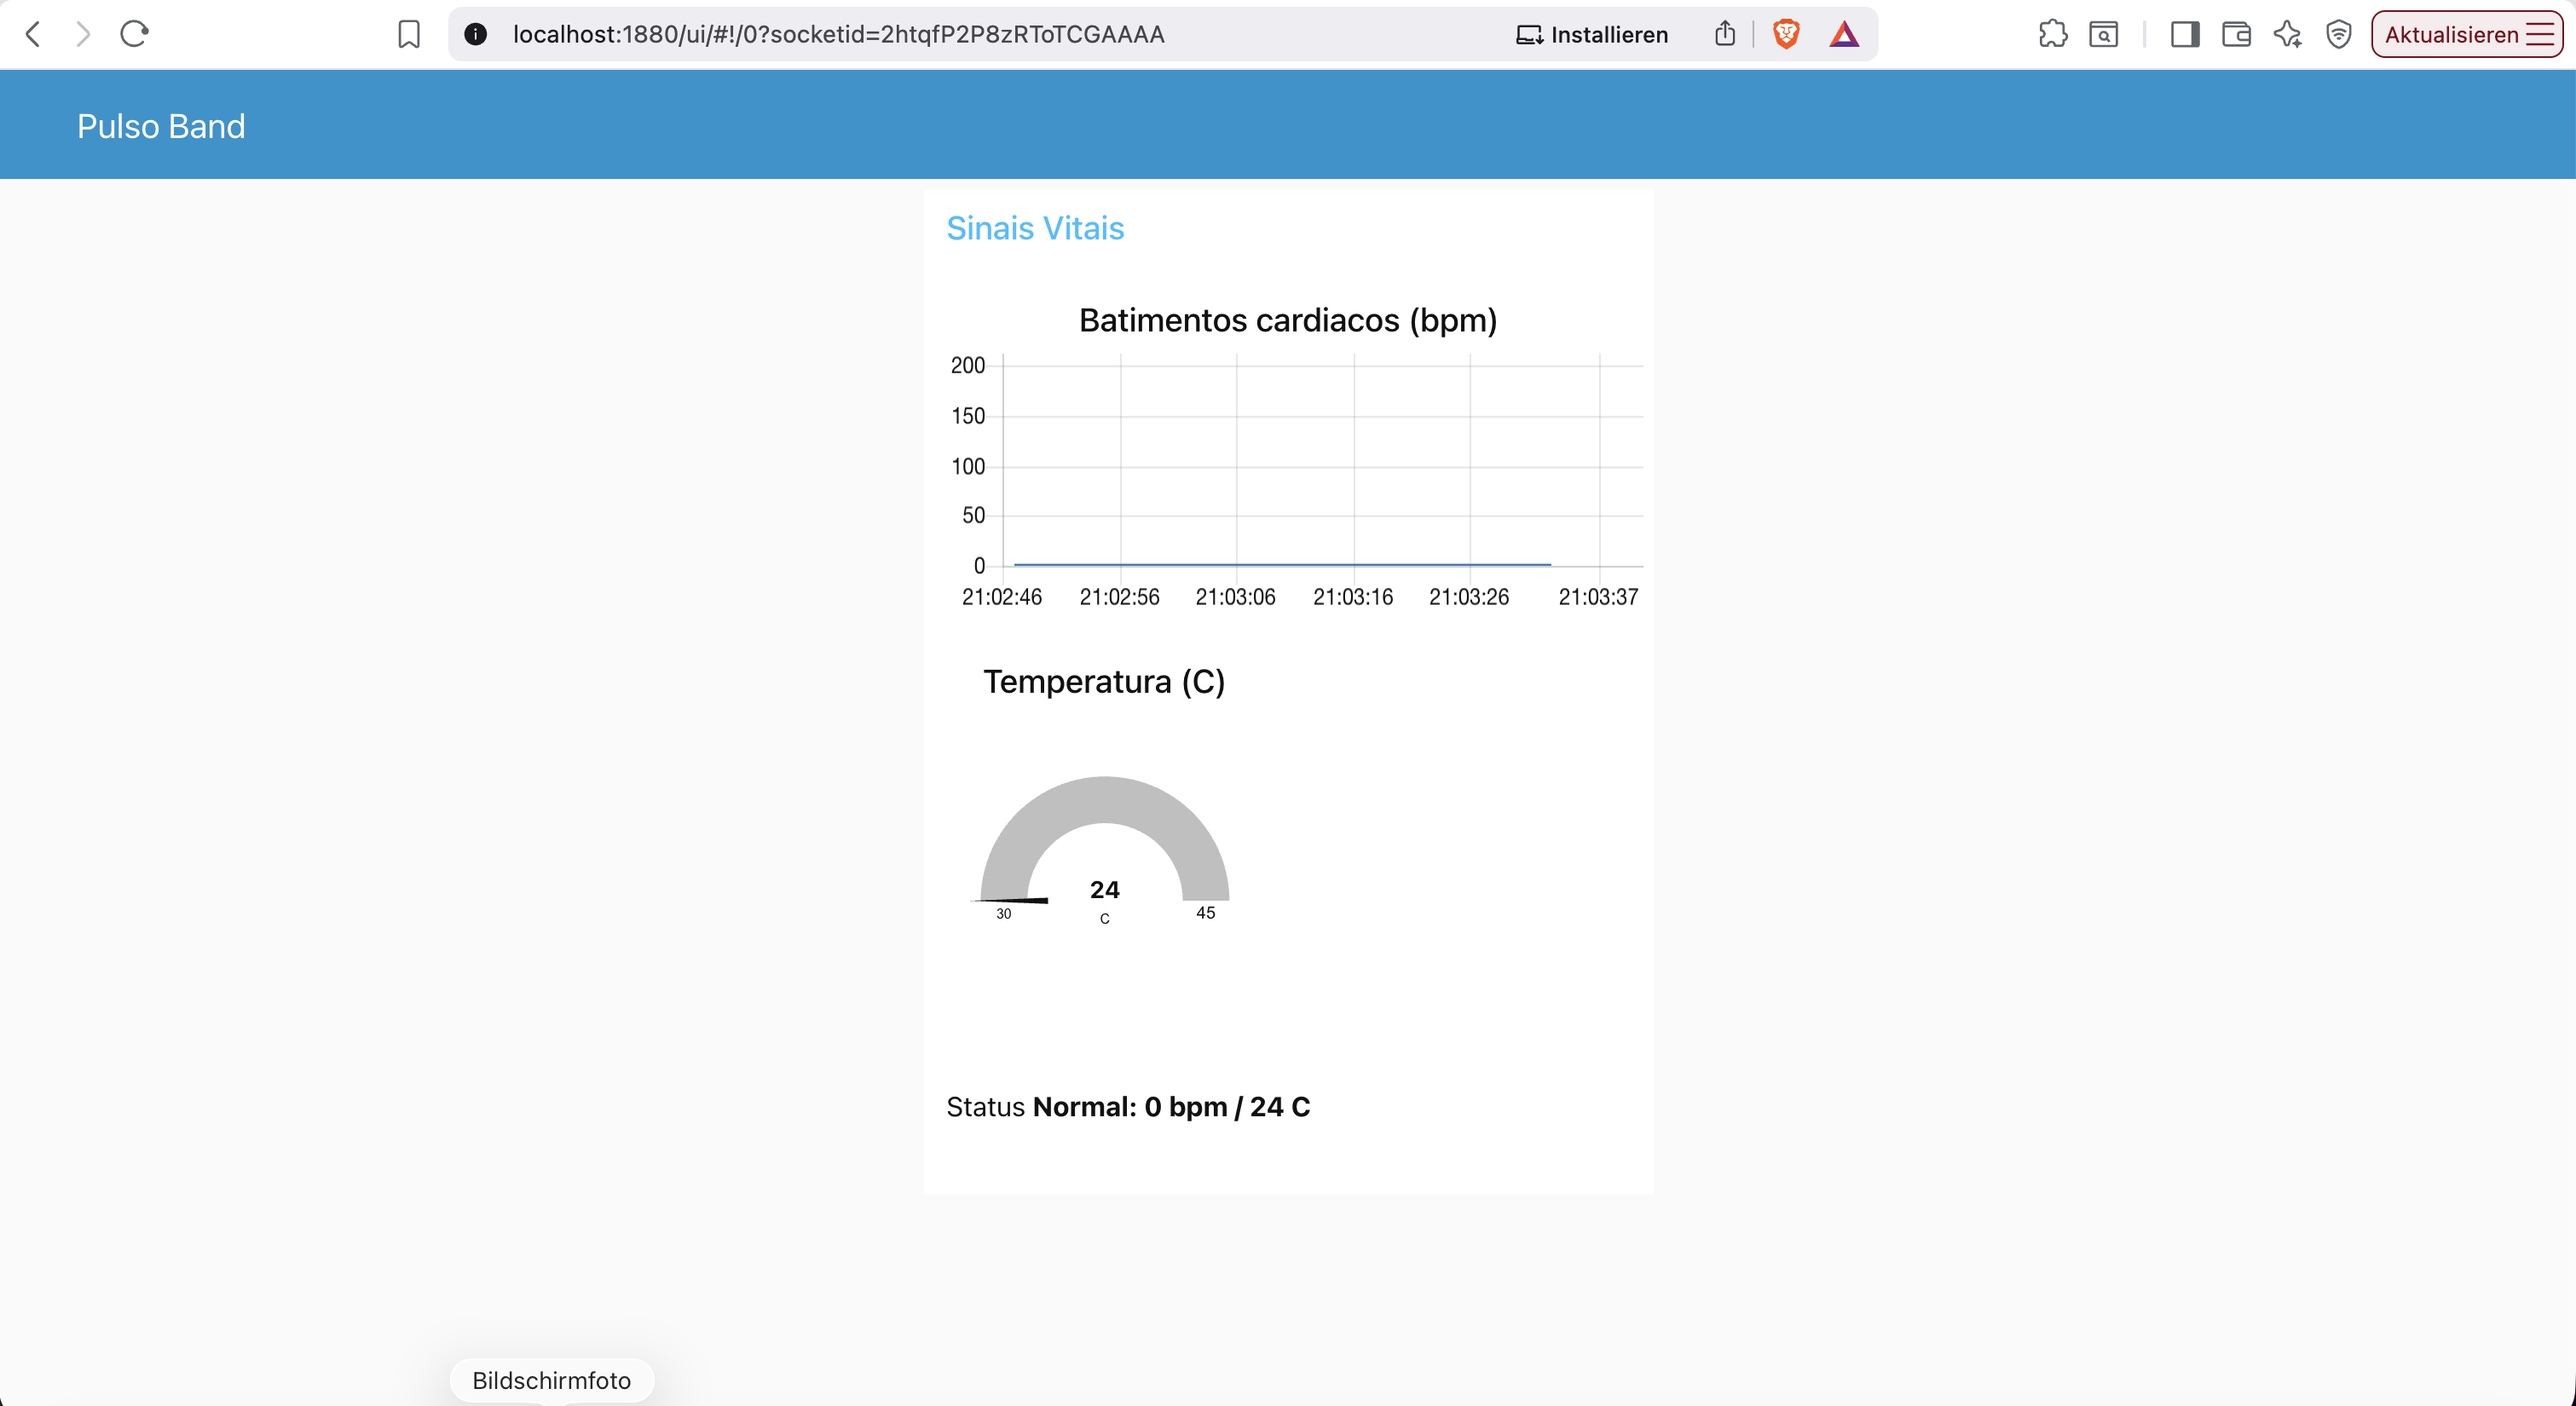
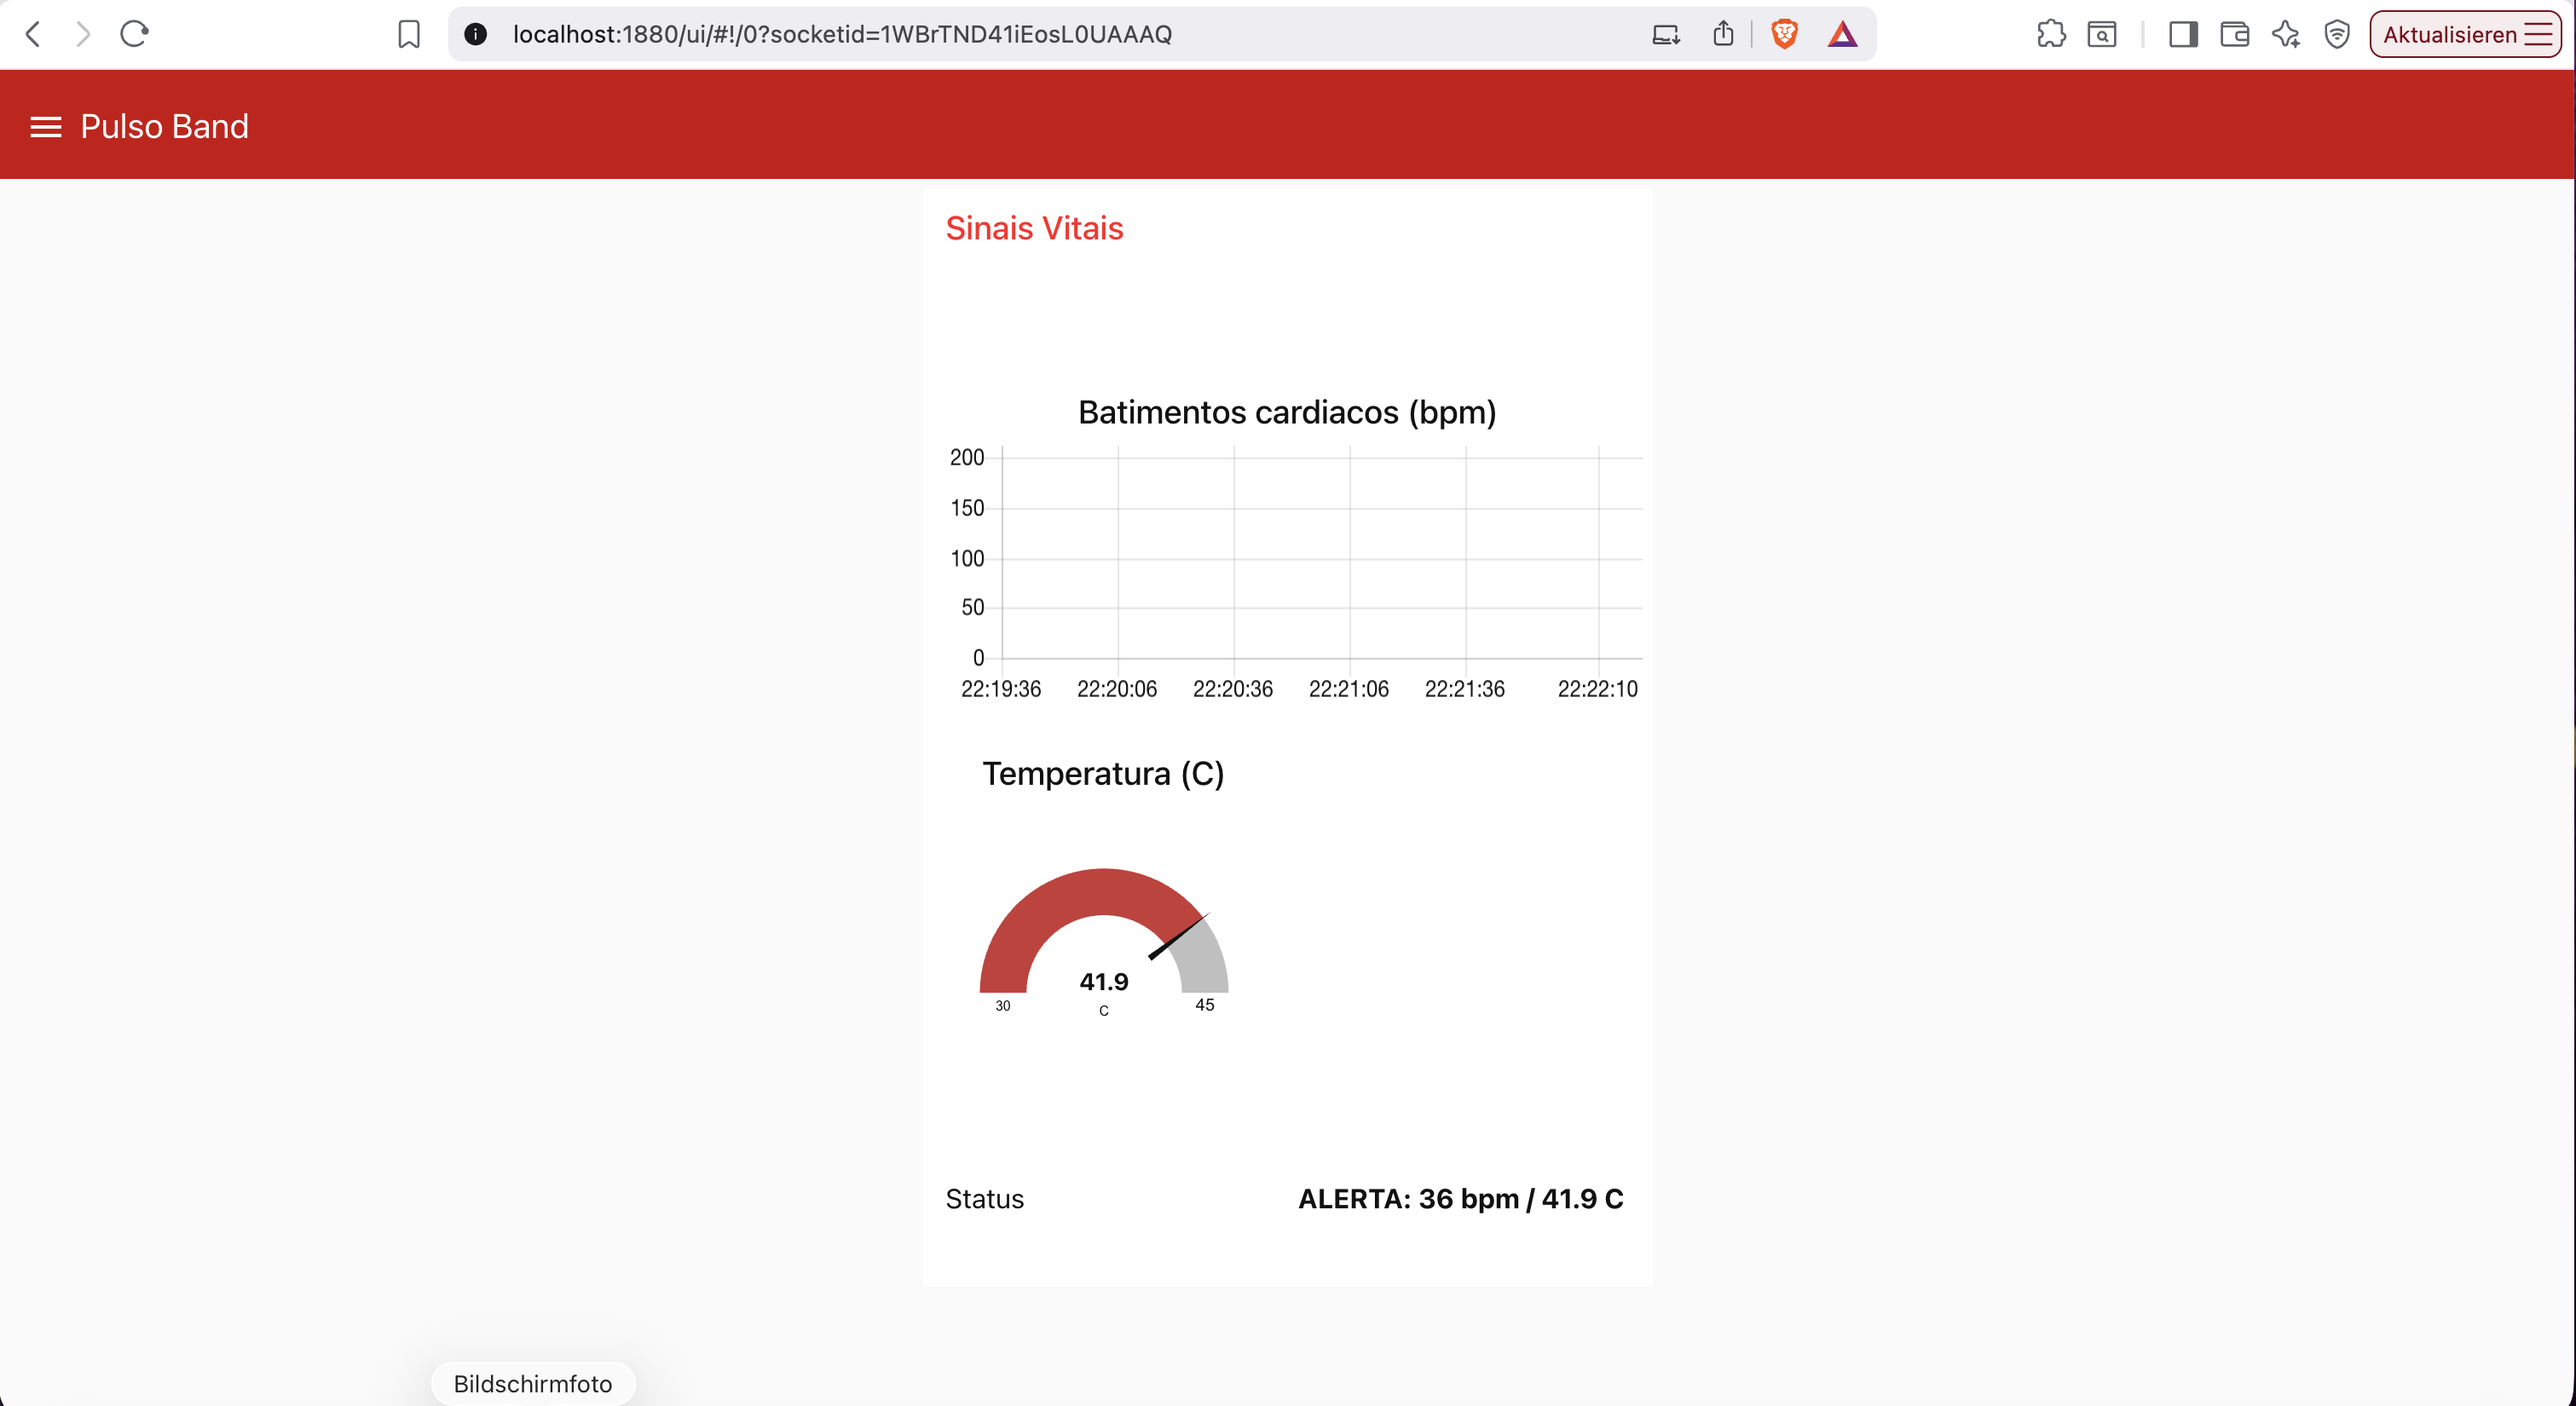
Fix: Node-RED parseia payload MQTT (string JSON); atualiza print do dashboard com alerta ativo

diff --git a/README.md b/README.md
@@ -255,8 +255,10 @@ temperatura e indicador de alerta):
 </p>
 
 **Dashboard em funcionamento** (`localhost:1880/ui`) — com o gráfico de batimentos,
-o gauge de temperatura (24 °C) e o indicador de status exibindo "Normal: 0 bpm / 24 C"
-a partir dos dados reais recebidos do ESP32 via MQTT:
+o gauge de temperatura e o indicador de status. Neste instante a temperatura é de
+41,9 °C, acima do limite de 37,8 °C: o gauge entra na faixa vermelha e o status
+exibe "ALERTA: 36 bpm / 41,9 C", demonstrando o disparo automático de alerta a
+partir dos dados reais recebidos do ESP32 via MQTT:
 
 <p align="center">
   <img src="assets/06_dashboard_ui_funcionando.png" alt="Dashboard Pulso Band em funcionamento" width="70%">
